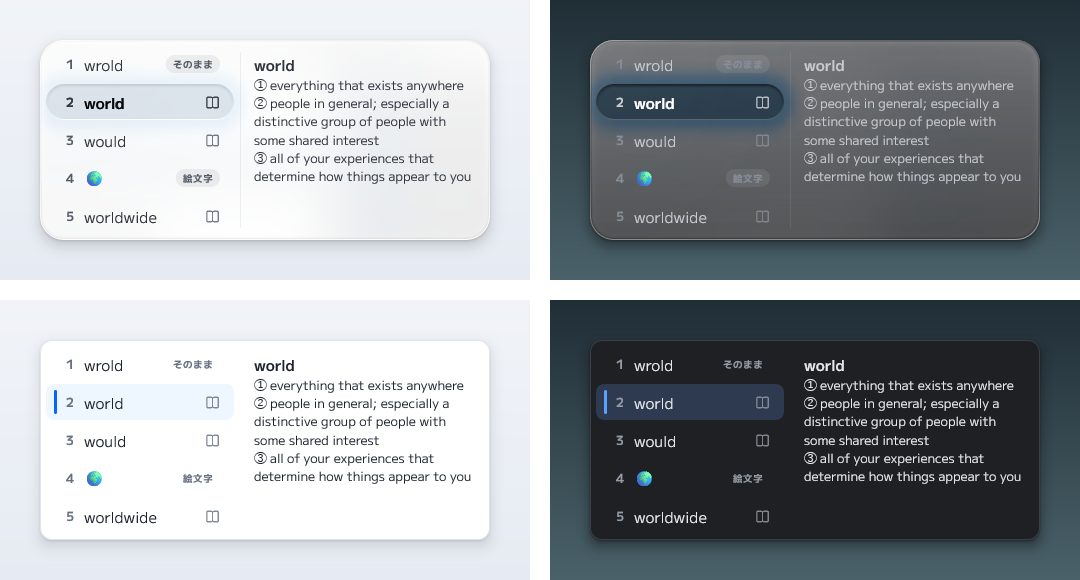
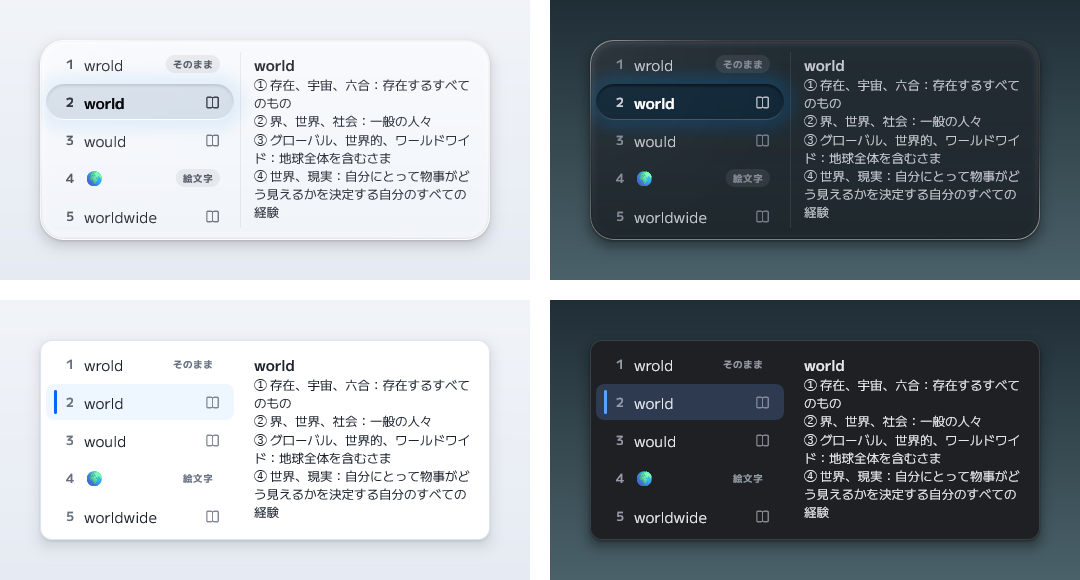
README: the candidate list pictures retaken as the window draws it now; the Japanese one shows the English word's meaning in Japanese, as Settings in Japanese does (the preview's sample meaning follows TEKITO_PREVIEW_LANGUAGE)

diff --git a/tests/visual/CandidateWindowPreview.cpp b/tests/visual/CandidateWindowPreview.cpp
@@ -21,7 +21,8 @@
 // fades out by itself (exit code 4 if it stays).
 //
 // TEKITO_PREVIEW_STYLE=simple renders the simple candidate window style;
-// TEKITO_PREVIEW_LANGUAGE=ja shows the Japanese tags.
+// TEKITO_PREVIEW_LANGUAGE=ja shows the Japanese tags, and the English
+// word's meaning in Japanese.
 // Environment overrides (preview builds only): TEKITO_PREVIEW_THEME=dark|light,
 // TEKITO_PREVIEW_NO_COMPOSITION=1 (HWND fallback renderer),
 // TEKITO_PREVIEW_HIGH_CONTRAST=1 (high-contrast palette from system colors).
@@ -261,12 +262,21 @@ std::vector<tekito::Candidate> SampleChunkCandidates() {
 }
 
 // The meaning pane, as the TSF fills it from the meaning packs.
-tekito::tsf::CandidateDetail SampleDetail(bool kanji) {
+tekito::tsf::CandidateDetail SampleDetail(bool kanji, bool japanese) {
     if (kanji) {
         return {L"\u6a5f\u4f1a",
                 {L"\u7269\u4e8b\u3092\u884c\u3046\u306e\u306b\u3001\u6700\u3082\u9069\u3057\u305f"
                  L"\u6642\u671f\u3002\u3061\u3087\u3046\u3069\u3088\u3044\u6642\u3002\u304a\u308a\u3002",
                  L"\u3061\u3087\u3046\u3069\u3088\u3044\u30c1\u30e3\u30f3\u30b9\u3002"}};
+    }
+    // With the Japanese tags, as Settings in Japanese shows it: the meaning
+    // in Japanese (english-meanings-ja's row for world).
+    if (japanese) {
+        return {L"world",
+                {L"存在、宇宙、六合：存在するすべてのもの",
+                 L"界、世界、社会：一般の人々",
+                 L"グローバル、世界的、ワールドワイド：地球全体を含むさま",
+                 L"世界、現実：自分にとって物事がどう見えるかを決定する自分のすべての経験"}};
     }
     return {L"world",
             {L"everything that exists anywhere",
@@ -348,15 +358,14 @@ int wmain(int argc, wchar_t** argv) {
         window.SetStyle(1);
     }
     wchar_t language[8]{};
-    if (GetEnvironmentVariableW(L"TEKITO_PREVIEW_LANGUAGE", language, 8) > 0 && wcscmp(language, L"ja") == 0) {
-        window.SetJapanese(true);
-    }
+    const bool japaneseUi = GetEnvironmentVariableW(L"TEKITO_PREVIEW_LANGUAGE", language, 8) > 0 && wcscmp(language, L"ja") == 0;
+    if (japaneseUi) window.SetJapanese(true);
     auto candidates = chunks ? SampleChunkCandidates() : kanji ? SampleKanjiCandidates() : SampleCandidates(longList);
     if (meaning) {
         // Rows with a meaning show the dictionary sign.
         for (std::size_t i = 0; i < candidates.size(); ++i) candidates[i].hasMeaning = i != 0 && i != 3;
     }
-    const auto detail = meaning ? SampleDetail(kanji) : tekito::tsf::CandidateDetail{};
+    const auto detail = meaning ? SampleDetail(kanji, japaneseUi) : tekito::tsf::CandidateDetail{};
     // Caret under "wrold" on the document's third line.
     RECT caret{232, 280, 234, 302};
     LARGE_INTEGER frequency{};
